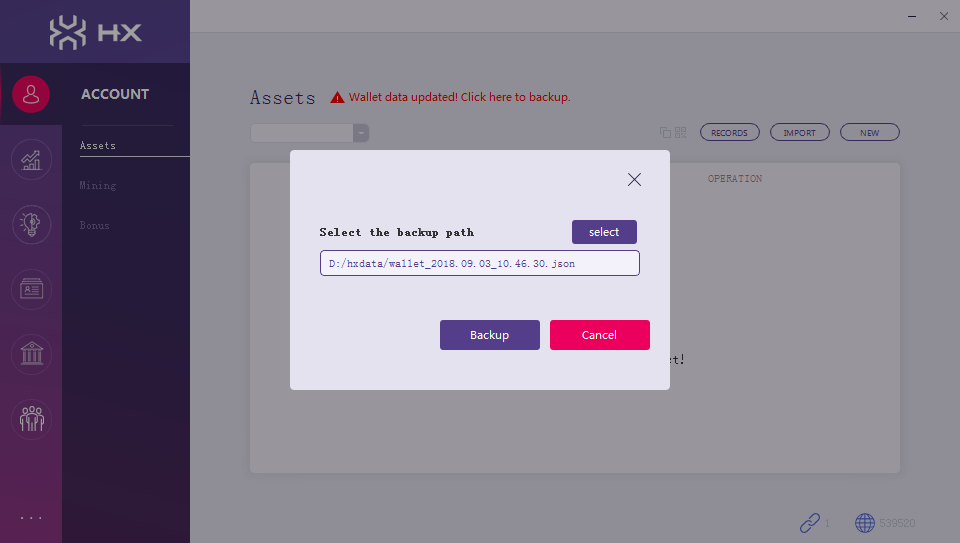
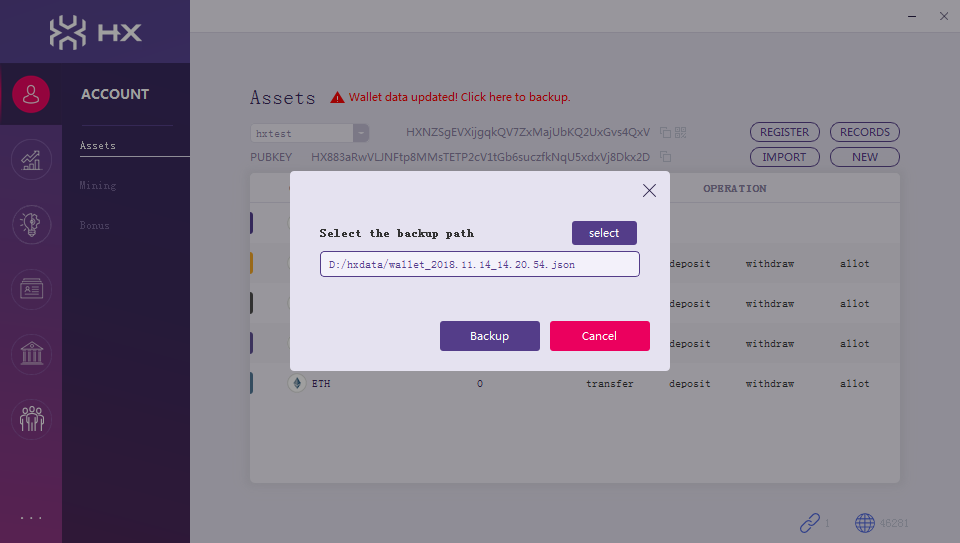
asset page modify

diff --git a/site/wallets/hxindicator-using-account/index.html b/site/wallets/hxindicator-using-account/index.html
@@ -1470,13 +1470,19 @@
 <p>After login asset page, you can view all assets of the Wallet accounts.</p>
 <p><img alt="Account Tab" src="../../img/wallets/hxindicator/asset-page.png" /></p>
 <blockquote>
-<p>Create New Account</p>
+<p>Create New Normal Account</p>
 </blockquote>
 <p>Click &ldquo;NEW&rdquo; to create an account on asset page, enter your account name (it will check whether the registered account already existed on the blockchain).</p>
 <p><img alt="NEW Tab" src="../../img/wallets/hxindicator/create-new-account.png" /></p>
 <p>Click &ldquo;OK&rdquo; to backup wallet data, select a safe path, and click &ldquo;Backup&rdquo;.</p>
 <p><img alt="backup Tab" src="../../img/wallets/hxindicator/backup-wallet.png" /></p>
 <p><img alt="backup Tab1" src="../../img/wallets/hxindicator/backup-wallet1.png" /></p>
+<blockquote>
+<p>To be a registered account, if the user wants to mine, or to be senator or citizen, it must register, click &ldquo;REGISTER&rdquo; on the asset page.</p>
+</blockquote>
+<p><img alt="Mining Register" src="../../img/wallets/hxindicator/mining-register.png" /></p>
+<p>Click &ldquo;OK&rdquo;,enter the wallet password.You will see screen as below.</p>
+<p><img alt="Mining Register" src="../../img/wallets/hxindicator/mining-register1.png" /></p>
 <blockquote>
 <p>Import Account</p>
 </blockquote>
@@ -1539,6 +1545,11 @@ If you do not want to deposit to HX chain, you can choose &ldquo;Withdraw&rdquo;
 <p><img alt="Mining Mortgage" src="../../img/wallets/hxindicator/mining-income.png" /></p>
 <p>After reaching the minimum amount.Click &ldquo;get income&rdquo; to receive reward.</p>
 <p><img alt="Mining Mortgage" src="../../img/wallets/hxindicator/mining-get-income.png" /></p>
+<blockquote>
+<p>CITIZEN INFO</p>
+</blockquote>
+<p>Show detail information of all citizens on hx blockchain.</p>
+<p><img alt="Mining citizen" src="../../img/wallets/hxindicator/mining-citizen.png" /></p>
 <h2 id="bonus">Bonus<a class="headerlink" href="#bonus" title="Permanent link">&para;</a></h2>
 <p><img alt="Bonus" src="../../img/wallets/hxindicator/bonus.png" /></p>
 <hr />
